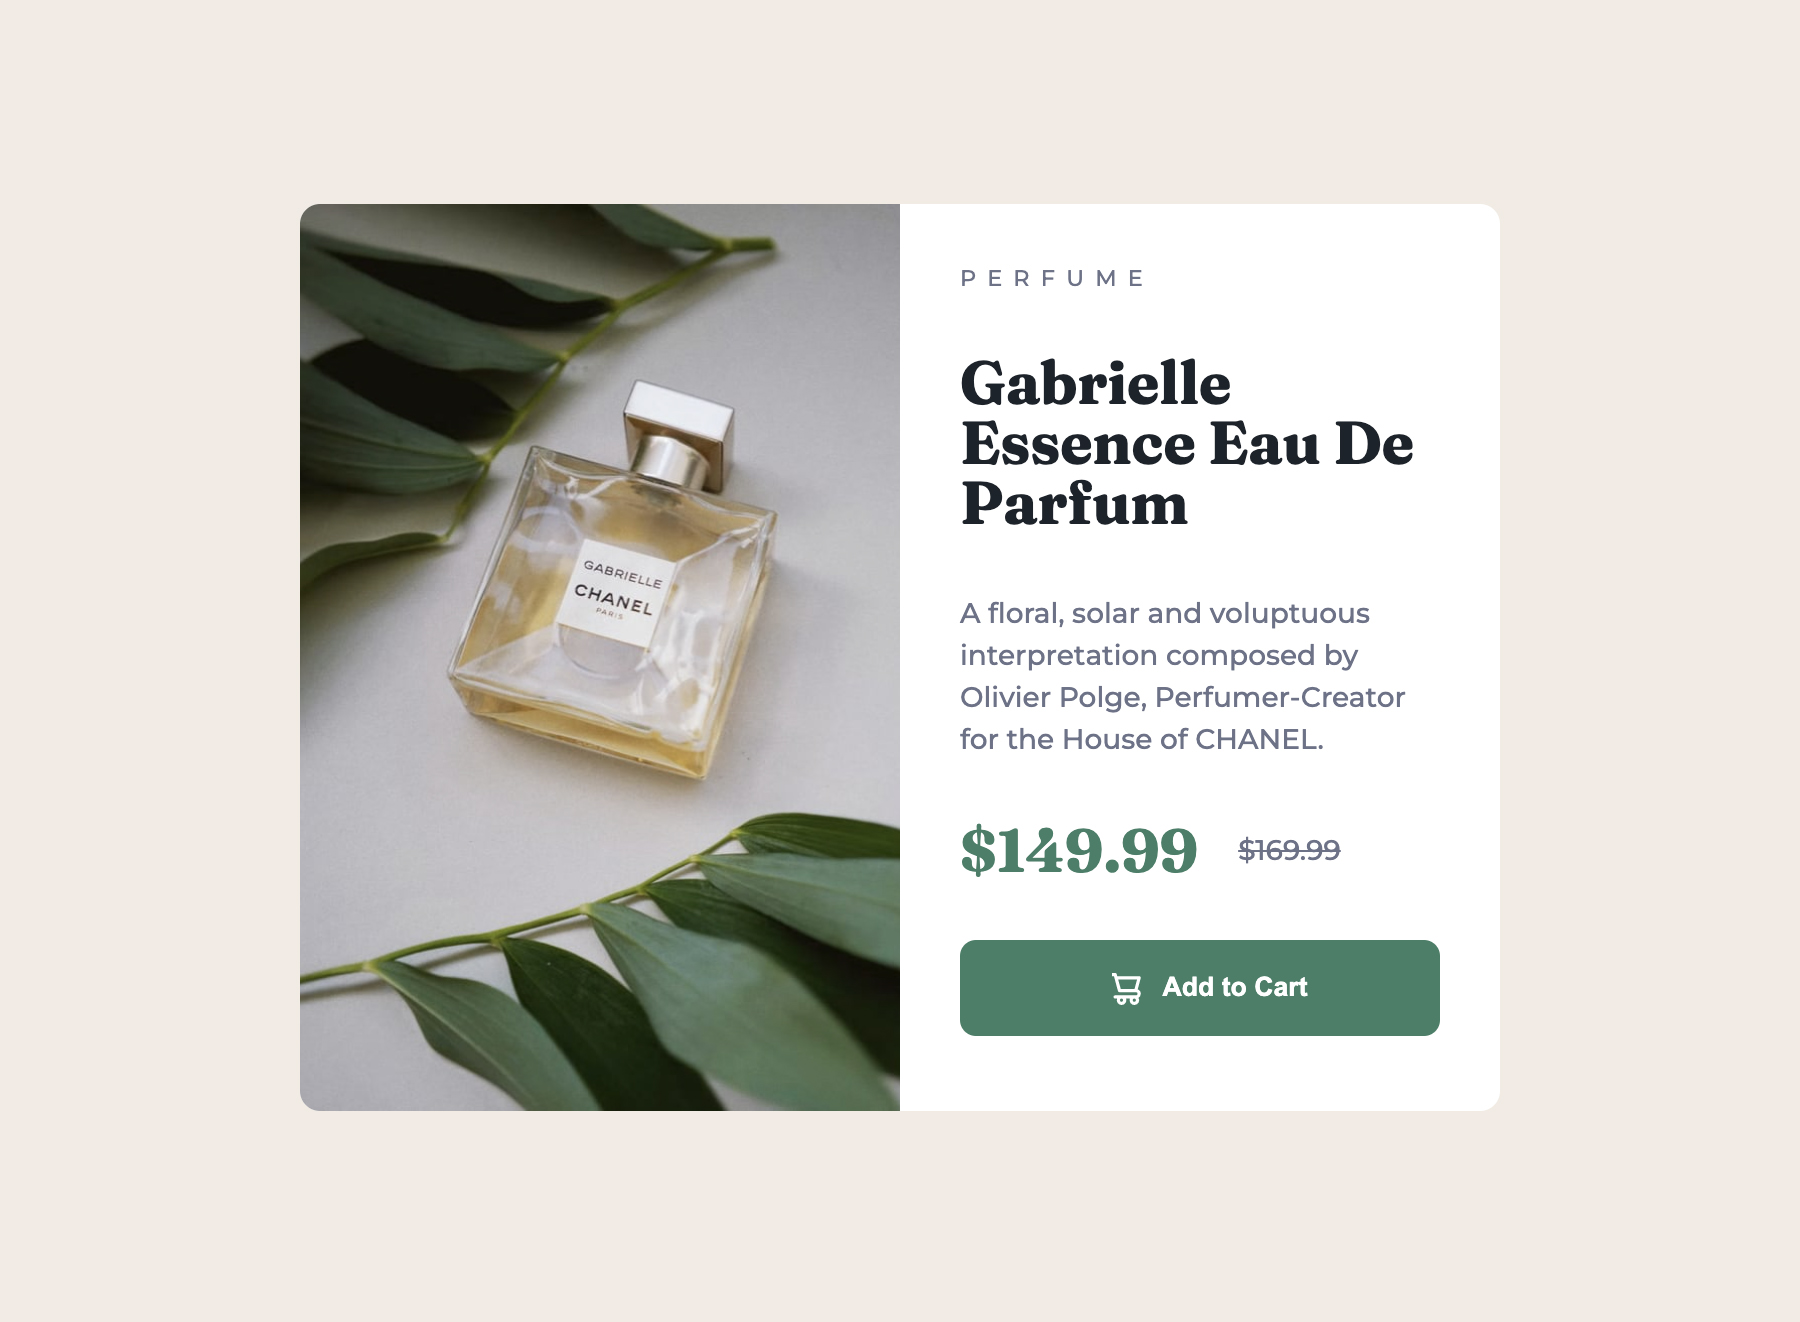
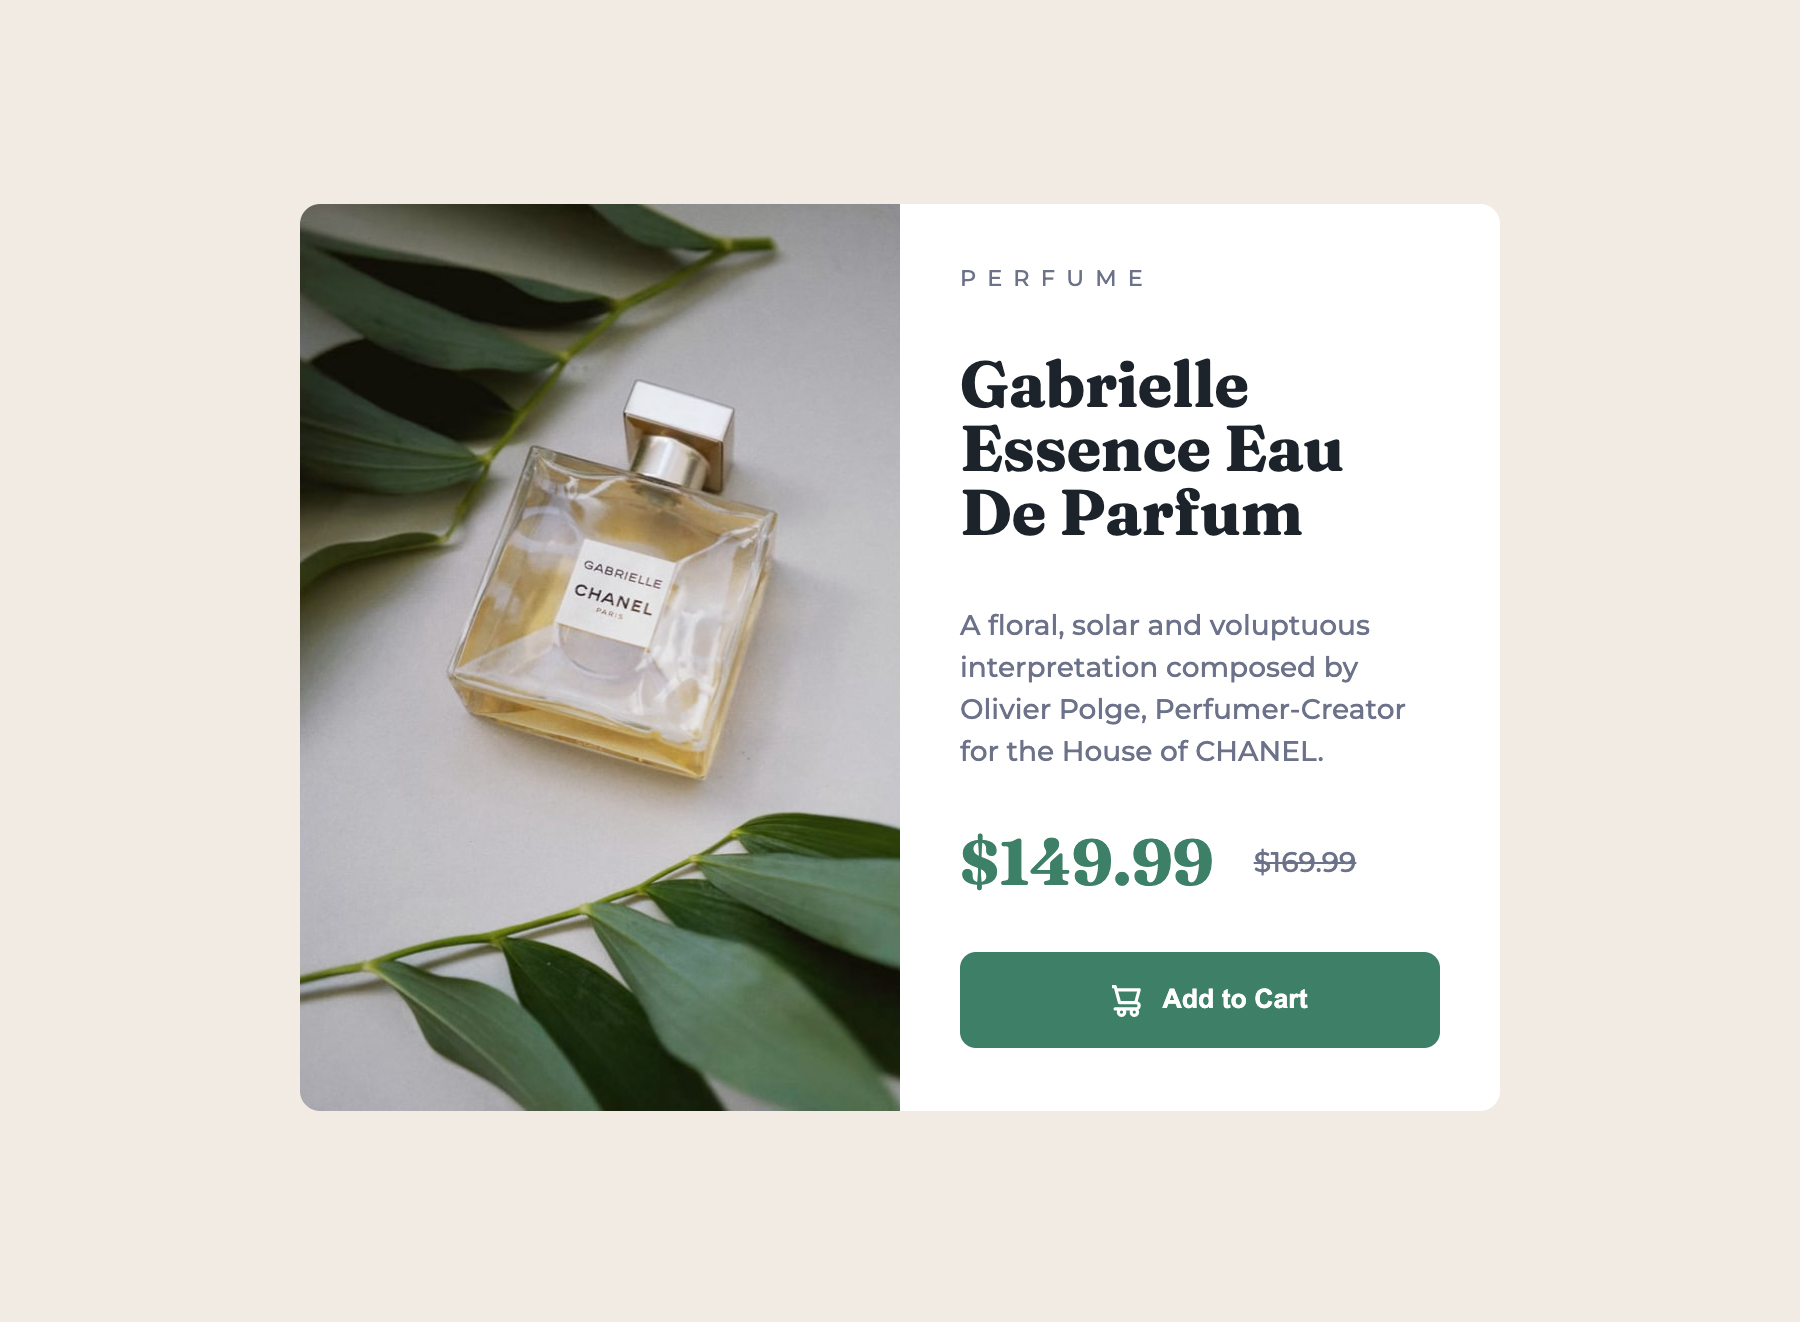
Change title and price font-size

diff --git a/styles.css b/styles.css
@@ -68,7 +68,7 @@ del {
 .card-title {
   font-family: "Fraunces", serif;
   font-weight: 700;
-  font-size: 30px;
+  font-size: 32px;
   line-height: 1em;
   color: var(--very-dark-blue);
   margin-bottom: 30px;
@@ -90,7 +90,7 @@ del {
 .price h4 {
   font-family: "Fraunces", serif;
   font-weight: 700;
-  font-size: 30px;
+  font-size: 32px;
   color: var(--dark-cyan);
   padding-right: 20px;
 }
